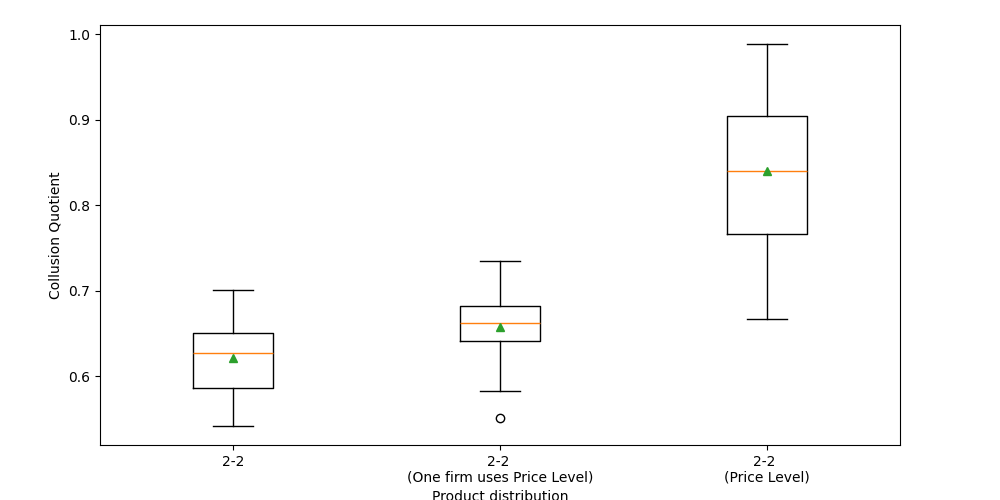
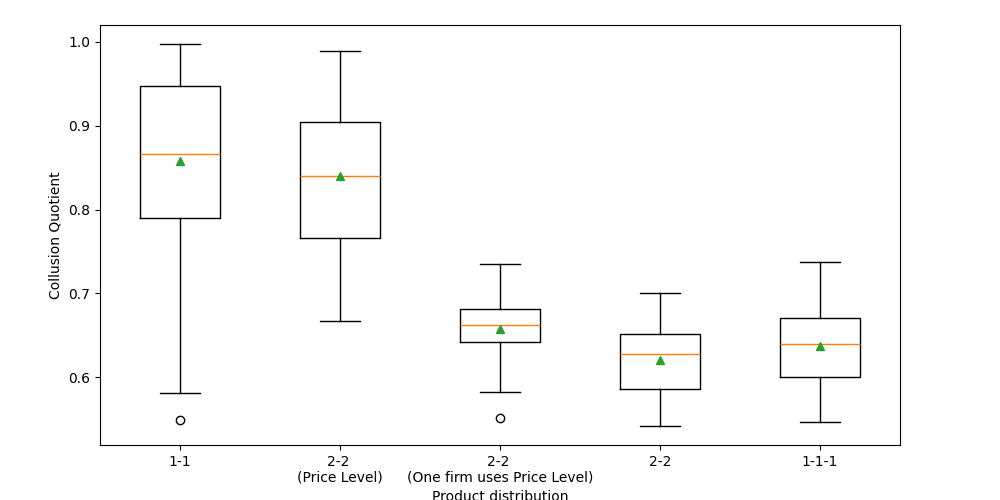
final

diff --git a/graph_firms_2-2_boxplot.py b/graph_firms_2-2_boxplot.py
@@ -23,9 +23,11 @@ def main():
     ticks = []
     file_exists = True
     filenames = [
-        'assymetric2-2',
-        'assymetric2-2_half_price',
+        '2_firms',
         'assymetric2-2_one_price',
+        'assymetric2-2_half_price',
+        'assymetric2-2',
+        '3_firms'
     ]
     for name in filenames:
         new_filename = f"graph_default_{name}"
